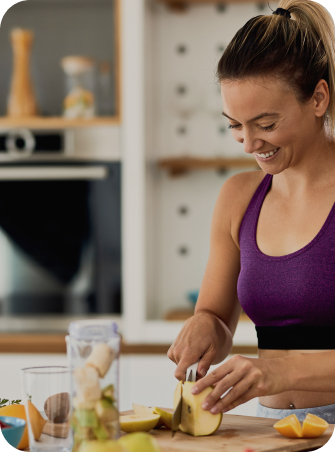
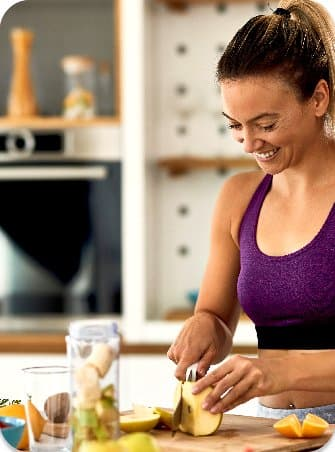
add effects

diff --git a/src/css/how-it-works.css b/src/css/how-it-works.css
@@ -43,14 +43,36 @@
 }
 
 .thumb {
+  position: relative;
   max-width: 335px;
   border-radius: 30px;
   overflow: hidden;
   object-fit: cover;
-  background-image: linear-gradient(
-    rgba(20, 20, 20, 0.2),
-    rgba(20, 20, 20, 0.2)
-  );
+  background-color: #1414144d;
+}
+
+.thumb::after {
+  content: '';
+  position: absolute;
+  top: 0;
+  left: 0;
+  right: 0;
+  bottom: 0;
+  background: rgba(20, 20, 20, 0.2);
+  z-index: 1;
+  transition: opacity 2s;
+  opacity: 1;
+}
+
+.thumb:hover::after,
+.thumb:hover:focus-within::after {
+  opacity: 0;
+}
+
+.thumb:hover .work-img,
+.thumb:hover .active {
+  transform: scale(1.1);
+  transition: transform 1s 0.2s;
 }
 
 @media screen and (min-width: 768px) {
@@ -171,6 +193,11 @@
   border-radius: 15px;
 }
 
+.list-item:hover {
+  transform: scale(1.1);
+  transition: transform 0.8s cubic-bezier(0.68, -0.55, 0.27, 1.55);
+}
+
 @media screen and (min-width: 768px) {
   .list-item {
     max-width: 768px;
@@ -202,6 +229,13 @@
   background-color: #7a3145;
   border: 5px solid #d4bfc4;
   border-radius: 50%;
+  transition: transform 4c;
+  transform-origin: center;
+}
+
+.list-item:hover::before,
+.list-item:active::before {
+  transform: scale(1.1);
 }
 
 .text-item {
@@ -215,5 +249,12 @@
 .item-span {
   font-weight: 700;
   color: #141414;
+}
+
+.text-item:hover {
+  color: #7a3145;
+  font-weight: 700;
+  transform: scale(1.05);
+  transition: transform 0.8s cubic-bezier(0.68, -0.55, 0.27, 1.55);
 }
 /* #endregion */

diff --git a/src/partials/how-it-works.html b/src/partials/how-it-works.html
@@ -31,7 +31,7 @@
             />
             <img
               class="work-img"
-              src="img/how-is-work/work@1.jpg"
+              src="img/how-is-work/mobilework@1.jpeg"
               alt="How it works?"
             />
           </picture>
